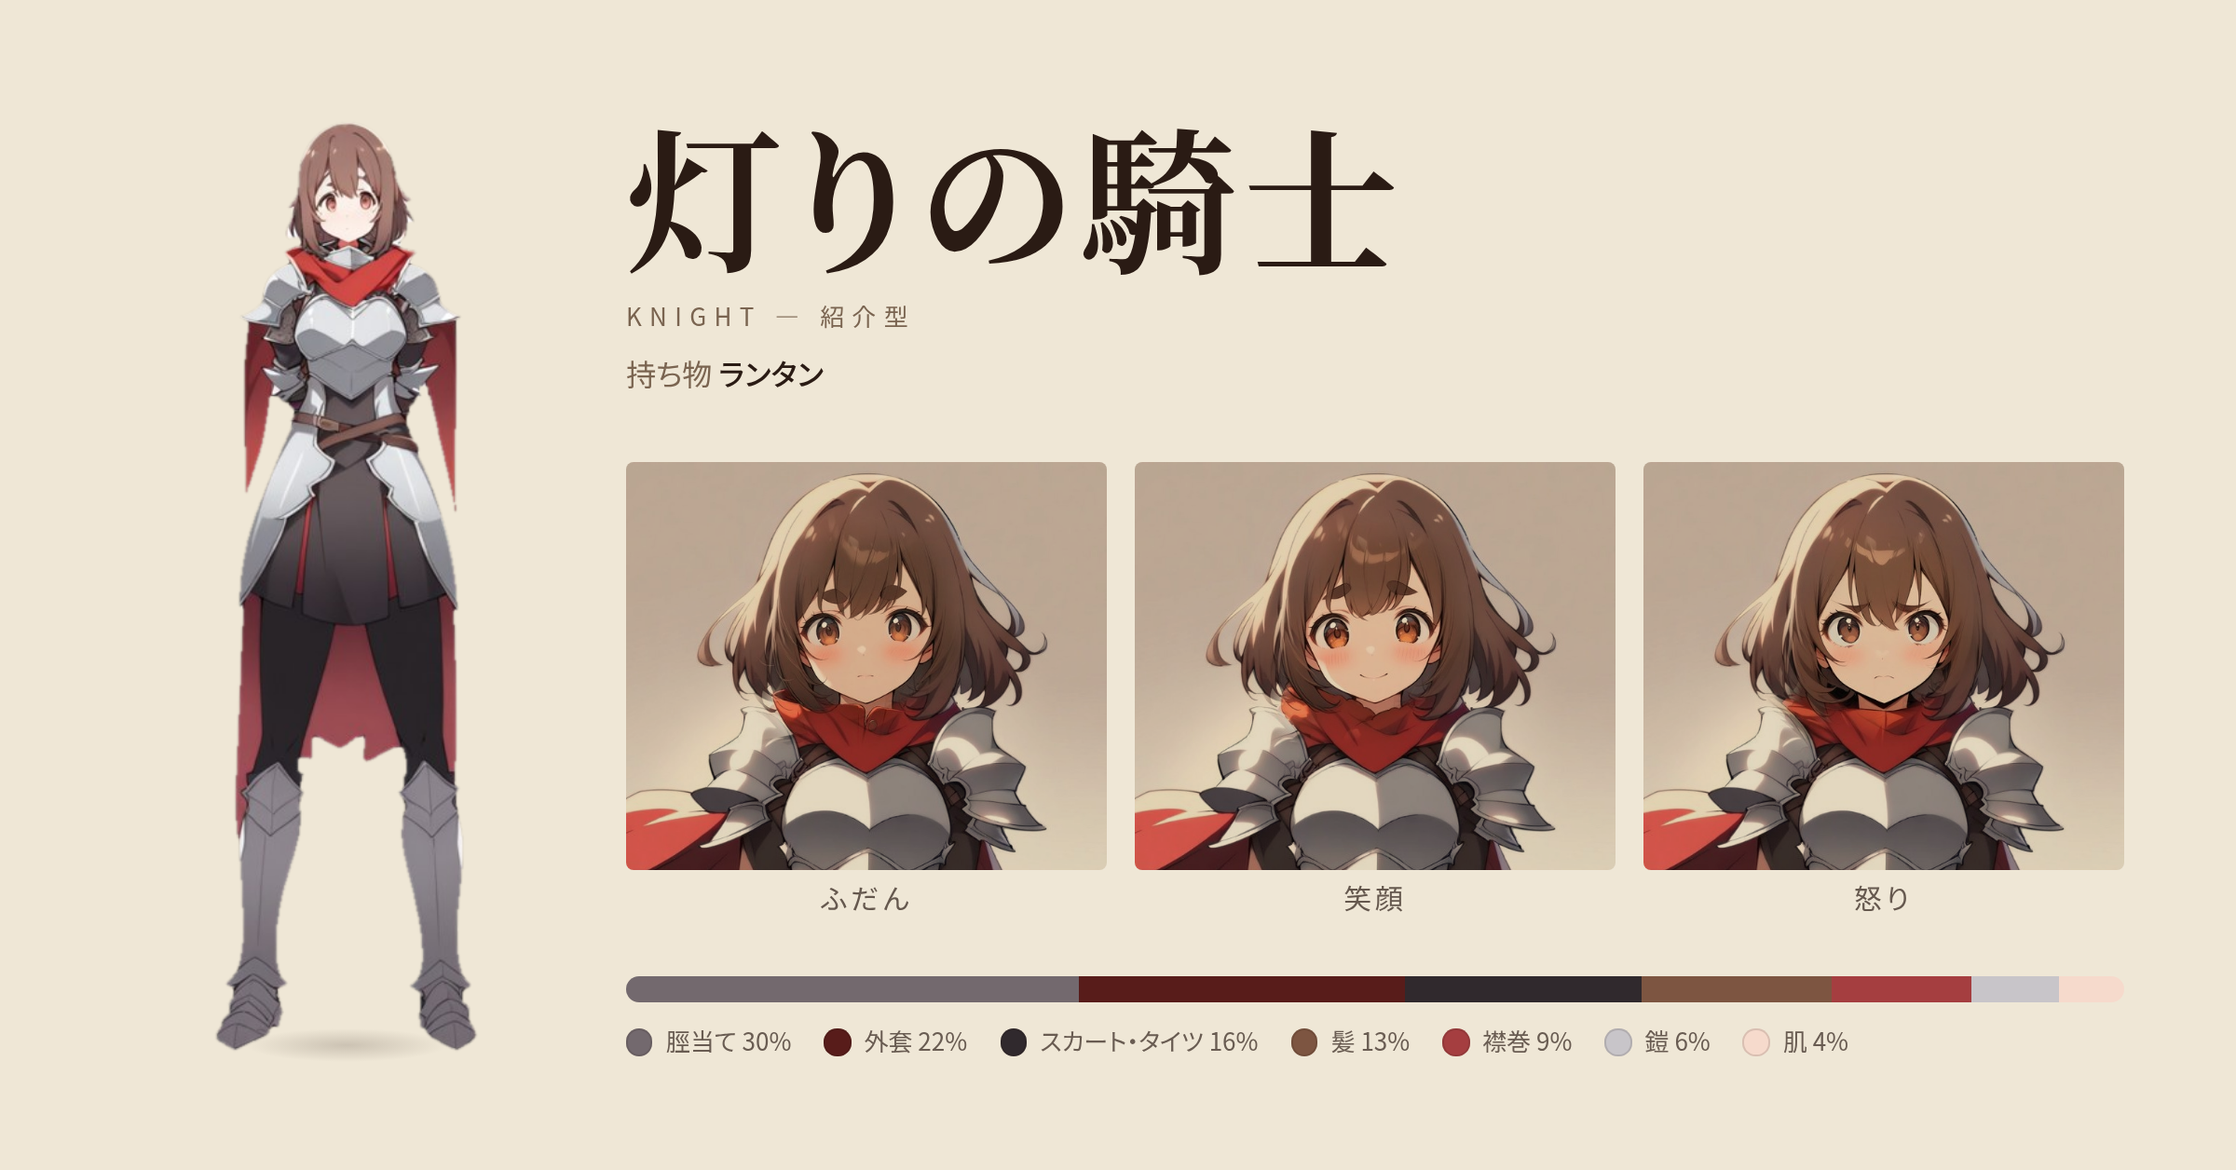
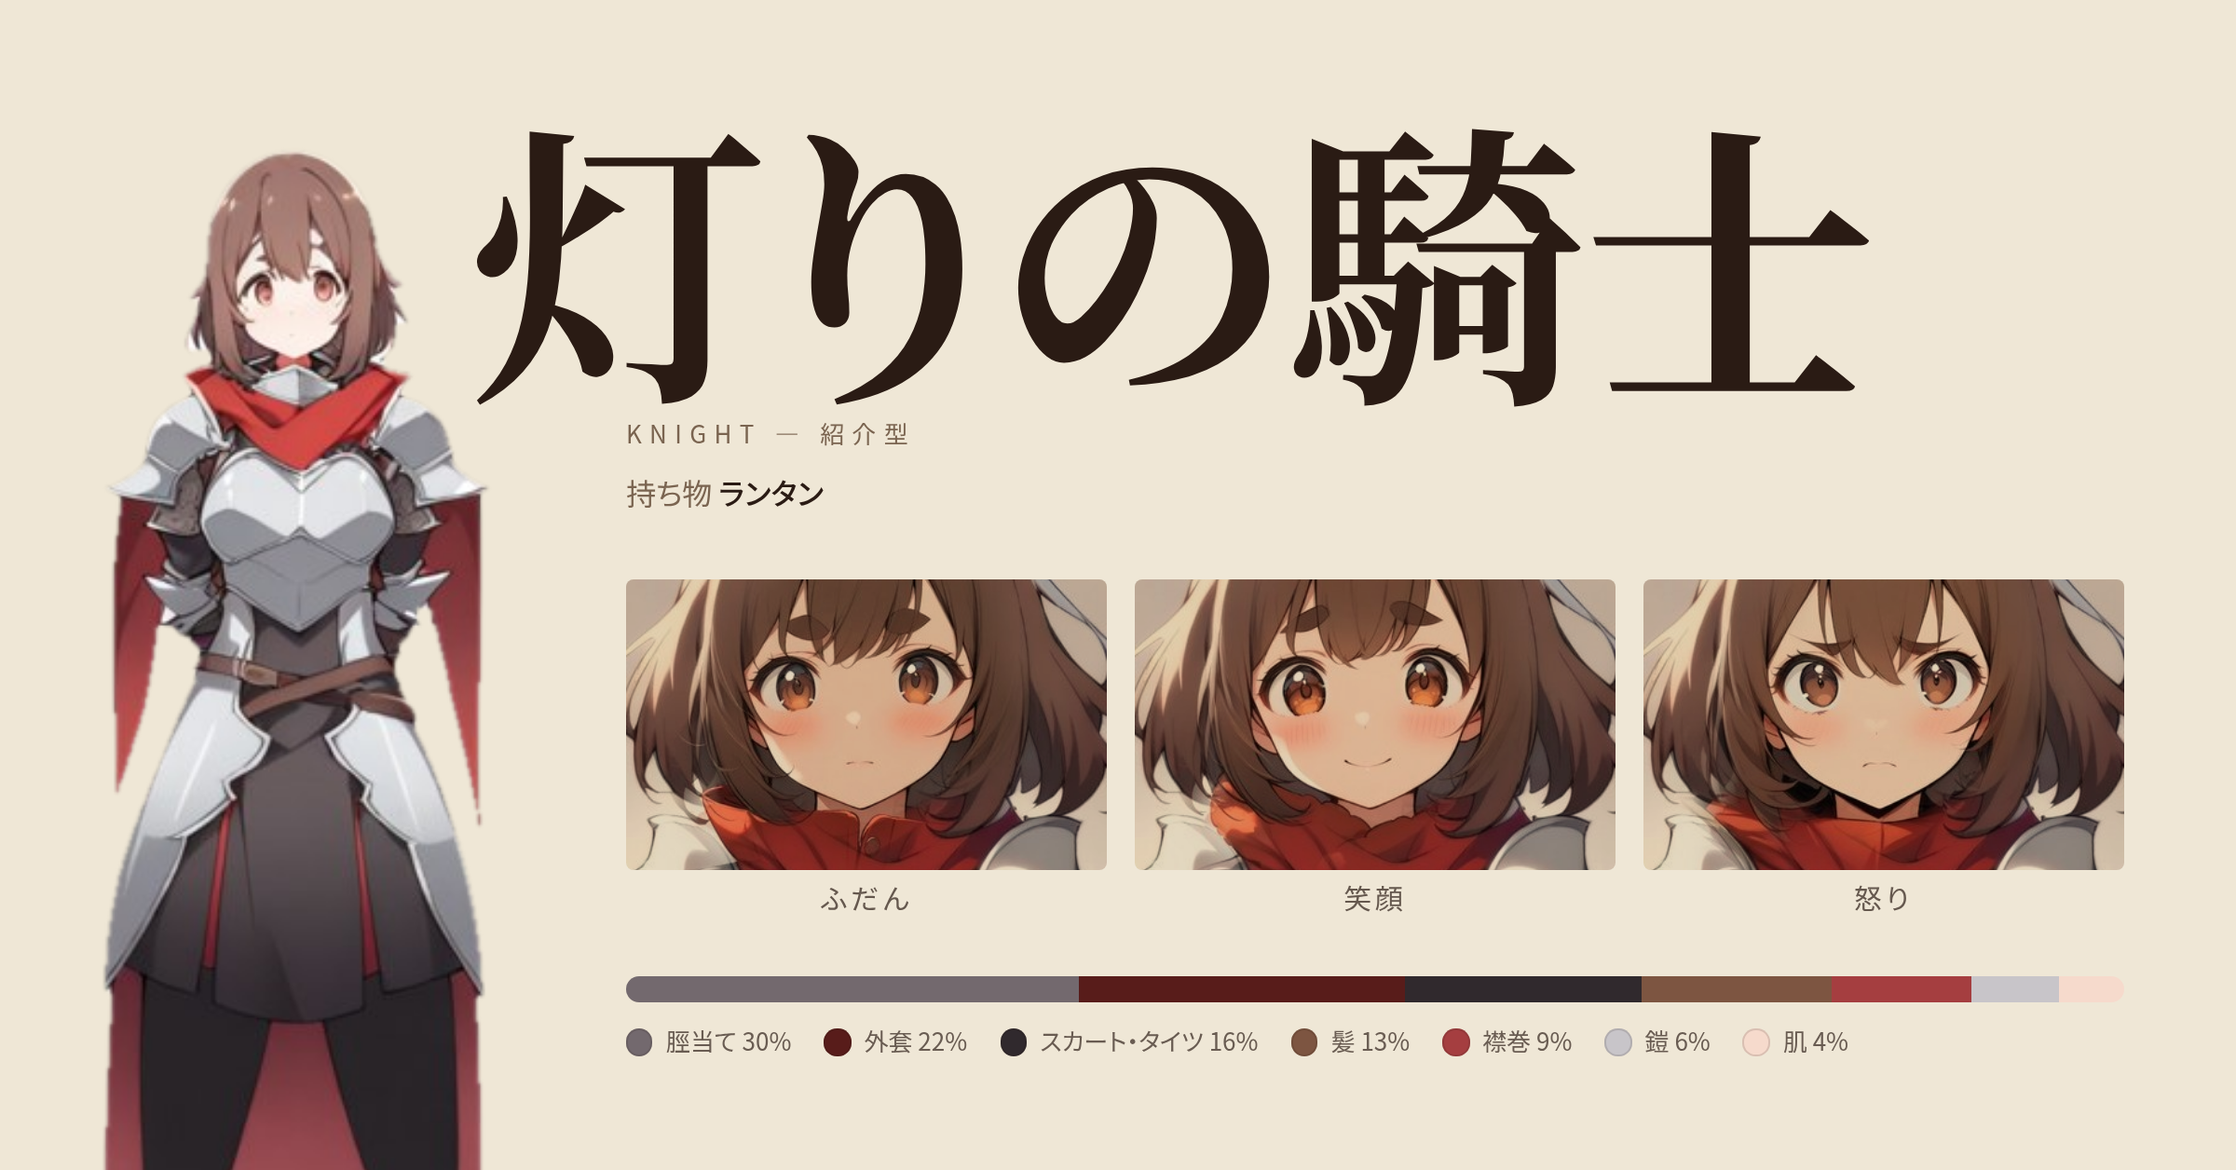
設定画集の版に、端で切る・重ねる手を印つきで入れる
欄に bleed と overlap の印を持たせ、試験は印の無い区画のはみ出しだけを数える。
主役の拡大と裁ち落とし、名前の上に人物を重ねる、顔の大写しを各版で使う。

Claude-Session: https://claude.ai/code/session_01SckJ2FC4PhB88prMhjDTEV

diff --git a/tools/gen/sheetlayout.py b/tools/gen/sheetlayout.py
@@ -28,6 +28,8 @@ CHROME = os.environ.get("SHEET_CHROME", "/opt/pw-browsers/chromium-1194/chrome-l
 # 横の向きの名前。四面図の絵は 正面・右向き・左向き・背面 の順に描いてある
 VIEW_NAMES = {4: ["正面", "右向き", "左向き", "背面"], 2: ["正面", "背面"], 1: ["正面"]}
 TILE_CROP = (0.10, 0.0, 0.90, 0.50)   # 表情の絵から頭と肩を切る割合。顔だけ（FACE_CROP）だと髪型と襟が切れて別人に見えた
+# 顔の大写し: 額と顎を枠で切る。実例の紹介頁は顔を大胆に切って目を大きく見せていた。表情の差は目と口に出るので、そこを残す
+TIGHT_CROP = (0.27, 0.12, 0.74, 0.36)
 
 
 def _uri(im, fmt="PNG") -> str:
@@ -75,12 +77,12 @@ def _hero(c, figs):
     return None, ""
 
 
-def _faces(ident, c, n):
+def _faces(ident, c, n, crop="bust"):
     from PIL import Image
     out = []
     for name, p in cs._expr_list(ident, c)[:n]:
         im = Image.open(bible.ROOT / p).convert("RGB")
-        x0, y0, x1, y1 = TILE_CROP
+        x0, y0, x1, y1 = TILE_CROP if crop == "bust" else TIGHT_CROP
         out.append((name, im.crop((int(x0 * im.width), int(y0 * im.height), int(x1 * im.width), int(y1 * im.height)))))
     return out
 
@@ -142,7 +144,11 @@ body{background:var(--page);color:var(--ink);font-family:var(--font);font-weight
 .meta{font-size:var(--t-body);color:var(--sub);margin-top:calc(var(--t-body) * .6);line-height:1.6}
 .meta b{color:var(--ink);font-weight:500}
 .fit{flex:1;position:relative;min-height:0}
-.fit img{position:absolute;display:block}
+.fit img{position:absolute;display:block;z-index:1}
+.fit{container-type:size}
+.wm{position:absolute;inset:0;display:flex;align-items:center;justify-content:center;writing-mode:vertical-rl;font-family:var(--title-font);font-weight:900;
+  font-size:min(var(--t-wm), 92cqw, calc(96cqh / var(--wmn)));line-height:1;letter-spacing:.02em;color:color-mix(in srgb, var(--accent) 13%, transparent);white-space:nowrap;z-index:0}
+.name.huge{font-size:var(--t-huge);line-height:.95;letter-spacing:-.01em;position:relative;z-index:0}
 .shadow{position:absolute;border-radius:50%;background:radial-gradient(closest-side, color-mix(in srgb, var(--ink) 18%, transparent), transparent)}
 .guide{position:absolute;height:0;border-top:1px dashed color-mix(in srgb, var(--accent) 45%, transparent)}
 .guide.up span{top:auto;bottom:4px}
@@ -195,8 +201,10 @@ JS = r"""
     const img = box.querySelector('img'); if (!img) continue;
     const W = box.clientWidth, H = box.clientHeight - (box.dataset.cap ? parseFloat(getComputedStyle(document.body).getPropertyValue('--t-note')) * 2.8 : 0);
     const L = box.dataset.guides ? 56 : 0;   // 高さの線の名前を置く幅。人物と重ならないよう左に空けておく
-    const s = Math.min((W - L) / img.naturalWidth, H / img.naturalHeight);
-    const w = img.naturalWidth * s, h = img.naturalHeight * s, x = L + (W - L - w) / 2, y = H - h;
+    const k = parseFloat(box.dataset.scale || 1), top = box.dataset.anchor === 'top';
+    const s = Math.min((W - L) / img.naturalWidth, H / img.naturalHeight) * k;
+    // 拡大した主役は頭を区画の上にそろえ、はみ出した下（足）は版面の端で切る
+    const w = img.naturalWidth * s, h = img.naturalHeight * s, x = L + (W - L - w) / 2, y = top ? H * 0.02 : H - h;
     Object.assign(img.style, {left: x + 'px', top: y + 'px', width: w + 'px', height: h + 'px'});
     if (box.dataset.shadow) {
       const sh = document.createElement('div'); sh.className = 'shadow';
@@ -221,11 +229,12 @@ JS = r"""
   const out = {drawn: [], over: [], empty: []};
   const r = e => { const b = e.getBoundingClientRect(); return [b.left, b.top, b.right, b.bottom].map(v => Math.round(v * 2)); };
   for (const cell of document.querySelectorAll('.cell')) {
-    const cb = r(cell), area = cell.dataset.area;
+    const cb = r(cell), area = cell.dataset.area, free = !!(cell.dataset.bleed || cell.dataset.overlap);
     const items = cell.querySelectorAll('img, .name, .meta, .notes li, .chip, .face p, .cap, .guide span, .swt tr, .sbar, .strip, .lab, .call p');
     if (!items.length) out.empty.push(area);
     for (const it of items) {
-      const b = r(it); out.drawn.push([area, cb, b]);
+      const b = r(it); out.drawn.push([area, cb, b, free]);
+      if (free) { out.free = (out.free || 0) + ((b[0] < cb[0] - 2 || b[1] < cb[1] - 2 || b[2] > cb[2] + 2 || b[3] > cb[3] + 2) ? 1 : 0); continue; }
       if (b[0] < cb[0] - 2 || b[1] < cb[1] - 2 || b[2] > cb[2] + 2 || b[3] > cb[3] + 2) out.over.push([area, it.className || it.tagName, cb, b]);
     }
   }
@@ -248,6 +257,12 @@ def _swatch_html(sw, style):
         for s in sw) + "</div>"
 
 
+def _wm(c):
+    """人物の後ろに敷く名前の大きな文字（縦書き）。区画の高さに字数が収まる大きさにする"""
+    n = c["name"]
+    return f'<div class="wm" style="--wmn:{len(n)}">{html.escape(n)}</div>'
+
+
 def _panel_html(pn, ctx):
     e = html.escape
     k, c = pn["kind"], ctx["c"]
@@ -255,10 +270,17 @@ def _panel_html(pn, ctx):
     if k == "header":
         items = "・".join(i["name"] for i in c.get("items", [])[:3])
         meta = f'<div class="meta">持ち物 <b>{e(items)}</b></div>' if items and pn.get("meta", True) else ""
-        return (f'<div class="name">{e(c["name"])}</div><div class="kana">{e(ctx["ident"])} — {e(ctx["fm"]["title"])}</div>{meta}')
+        pull = f' style="margin-left:calc(-{pn["pull"] * 100:.1f}vw)"' if pn.get("pull") else ""   # 名前を主役の下へ引き込み、人物が文字にかぶさるようにする
+        return (f'<div class="name{" huge" if pn.get("huge") else ""}"{pull}>{e(c["name"])}</div><div class="kana">{e(ctx["ident"])} — {e(ctx["fm"]["title"])}</div>{meta}')
     if k == "hero":
         im, cap = ctx["hero"]
-        return f'<div class="fit" data-shadow="1"><img src="{_uri(im)}"></div>' if im else ""
+        if not im:
+            return ""
+        sc, anchor = pn.get("scale", 1), pn.get("anchor", "bottom")
+        shadow = ' data-shadow="1"' if sc <= 1 and anchor == "bottom" else ""   # 足が切れるときは影を置かない
+        # 名前の大きな文字を人物の後ろに敷く（実例では人物が名前や大きな文字にかぶさる作りがあった）
+        wm = _wm(c) if pn.get("watermark") else ""
+        return f'<div class="fit" data-scale="{sc}" data-anchor="{anchor}"{shadow}>{wm}<img src="{_uri(im)}"></div>'
     if k == "turnaround":
         figs = ctx["figs"]
         if not figs:
@@ -269,9 +291,10 @@ def _panel_html(pn, ctx):
             title = title.replace("四面図", "正面・背面図")
         caps = html.escape(json.dumps([[n, x] for (n, _), x in zip(figs, centers)], ensure_ascii=False))
         g = ' data-guides="1"' if pn.get("guides") else ""
-        return lab(title, pn.get("sub", "")) + f'<div class="fit" data-cap="1" data-caps="{caps}"{g}><img src="{_uri(im)}"></div>'
+        wm = _wm(c) if pn.get("watermark") else ""
+        return lab(title, pn.get("sub", "")) + f'<div class="fit" data-cap="1" data-caps="{caps}"{g}>{wm}<img src="{_uri(im)}"></div>'
     if k == "expressions":
-        faces = _faces(ctx["ident"], c, pn.get("max", 6))
+        faces = _faces(ctx["ident"], c, pn.get("max", 6), pn.get("crop", "bust"))
         if not faces:
             return ""
         cols = pn.get("cols", 3)
@@ -368,6 +391,8 @@ def _theme_vars(th, c, W, H, fm):
         "--title-font": serif if th.get("title_font", th.get("font")) == "serif" else sans,
         "--name-w": str(th.get("name_weight", 700)), "--radius": f"{th.get('card_radius', 4)}px",
     }
+    t.setdefault("wm", t["name"] * 3.2)
+    t.setdefault("huge", t["name"] * 1.9)
     for k, px in t.items():
         v[f"--t-{k}"] = f"{px * u:.2f}px"
     return v
@@ -383,10 +408,14 @@ def render(ident: str, fm: dict, th: dict, out_png: str, out_html: str | None = 
     ctx = {"c": c, "ident": ident, "fm": fm, "figs": figs, "hero": _hero(c, figs), "sw": cs._swatches(c), "notes": cs._notes(c),
            "turn": _row(figs) if figs else (None, [])}
     # 区画ごとに欄を積む。素材の無い欄は外し、区画が空になったら absorb の区画に面積を渡して格子を組み直す
-    cells, used = {}, []
+    cells, used, free = {}, [], {}
     for pn in fm["panels"]:
         body = _panel_html(pn, ctx)
         if body:
+            # 印（bleed: 版面の端で切ってよい辺、overlap: 隣の区画に重ねてよい）は区画ごとに集める。印の無い区画のはみ出しだけを崩れとして数える
+            f = free.setdefault(pn["area"], {"bleed": set(), "overlap": False})
+            f["bleed"] |= set(pn.get("bleed", []))
+            f["overlap"] |= bool(pn.get("overlap"))
             grow = " grow" if pn["kind"] in ("hero", "turnaround", "expressions", "poses") else (" fill" if pn.get("style") == "table" else "")
             cells.setdefault(pn["area"], []).append(f'<div class="panel{grow}" data-kind="{pn["kind"]}">{body}</div>')
             used.append(pn["kind"])
@@ -402,7 +431,13 @@ def render(ident: str, fm: dict, th: dict, out_png: str, out_html: str | None = 
     v["--areas"] = " ".join(f'"{" ".join(r)}"' for r in rows)
     v["--rows"] = " ".join(fm["rows"])
     style = ":root{" + ";".join(f"{k}:{val}" for k, val in v.items()) + "}"
-    body = "".join(f'<div class="cell" data-area="{a}" style="grid-area:{a}">{"".join(p)}</div>' for a, p in cells.items())
+    def cell(a, p):
+        f = free.get(a, {"bleed": set(), "overlap": False})
+        st = f"grid-area:{a}" + "".join(f";margin-{side}:calc(-1 * var(--m))" for side in sorted(f["bleed"]))
+        mark = (" data-bleed=\"" + " ".join(sorted(f["bleed"])) + "\"" if f["bleed"] else "") + (" data-overlap=\"1\"" if f["overlap"] else "")
+        z = ";z-index:2" if f["overlap"] or f["bleed"] else ""
+        return f'<div class="cell" data-area="{a}"{mark} style="{st}{z}">{"".join(p)}</div>'
+    body = "".join(cell(a, p) for a, p in cells.items())
     doc = (f'<!doctype html><html lang="ja"><meta charset="utf-8"><title>{html.escape(c["name"])} {html.escape(fm["title"])}</title>'
            f'<style>{_font_css()}\n{style}\n{CSS}</style><body><div class="bg"></div><div class="page">{body}</div></body></html>')
     with tempfile.TemporaryDirectory() as td:
@@ -420,5 +455,5 @@ def render(ident: str, fm: dict, th: dict, out_png: str, out_html: str | None = 
             b.close()
     if out_html:
         Path(out_html).write_text(doc, encoding="utf-8")
-    return {"size": [W, H], "panels": used, "drawn": res["drawn"], "outside_panel": len(res["over"]), "over": res["over"],
+    return {"size": [W, H], "panels": used, "drawn": res["drawn"], "outside_panel": len(res["over"]), "over": res["over"], "intended": res.get("free", 0),
             "empty": res["empty"]}

diff --git a/tests/test_sheet_formats.py b/tests/test_sheet_formats.py
@@ -1,5 +1,6 @@
 """設定画集の版（styles/sheet-formats/*.json）とテーマ（styles/sheet-themes/*.json）が読めること、
-版とテーマを組み合わせて出せること、欄が区画からはみ出さないこと、中身の無い区画を作らないこと"""
+版とテーマを組み合わせて出せること、印の無い区画からはみ出さないこと、中身の無い区画を作らないこと、
+各版が魅せる手（端で切る・重ねる・顔の大写し・名前の上に人物）を少なくとも1つ使うこと"""
 import json
 import sys
 from pathlib import Path
@@ -45,7 +46,9 @@ def test_sample_renders_without_overflow(name, tmp_path):
     assert r["empty"] == []
     from PIL import Image
     assert Image.open(tmp_path / f"{name}.png").size == tuple(r["size"])
-    for _, _, d in r["drawn"]:
+    for _, _, d, free in r["drawn"]:
+        if free:   # bleed / overlap の印のある区画は、端で切れたり隣に重なったりしてよい
+            continue
         assert d[0] >= 0 and d[1] >= 0 and d[2] <= W and d[3] <= H, d
 
 
@@ -73,7 +76,9 @@ def test_theme_and_format_combine_without_overflow(theme, name, tmp_path):
     r = charsheet.sheet_format("sheep-girl", name, str(tmp_path / "s.png"), theme=theme)
     W, H = r["size"]
     assert r["theme"] == theme and r["outside_panel"] == 0 and r["empty"] == []
-    for _, _, d in r["drawn"]:
+    for _, _, d, free in r["drawn"]:
+        if free:   # bleed / overlap の印のある区画は、端で切れたり隣に重なったりしてよい
+            continue
         assert d[0] >= 0 and d[1] >= 0 and d[2] <= W and d[3] <= H, d
 
 
@@ -91,3 +96,12 @@ def test_suggest_puts_matching_theme_first():
 def test_unknown_theme_fails():
     with pytest.raises(SystemExit):
         charsheet.load_theme("no-such-theme")
+
+
+@pytest.mark.parametrize("name", NAMES)
+def test_each_format_uses_a_bold_device(name):
+    # 区画からはみ出さない決まりだけでは、主役が台紙に収まった平板な版になった
+    fm = charsheet.load_format(name)
+    marks = [k for pn in fm["panels"] for k in ("bleed", "overlap", "watermark", "huge") if pn.get(k)]
+    marks += ["tight" for pn in fm["panels"] if pn.get("crop") == "tight"]
+    assert marks, name

diff --git a/docs/knowledge/learning/design-sheet-layout.md b/docs/knowledge/learning/design-sheet-layout.md
@@ -103,3 +103,24 @@
 - 主役は背景を透かして地の上に立たせ、足の下に薄い影を 1 つ置く。台紙の枠は使わない
 - 素材の無い欄は外し、区画ごと隣の区画に渡す（absorb）。空いたますを作らない
 - テーマは 地・墨・補助・差し色（＋表情の台）の 5 色まで、模様は無し・点・罫・方眼のどれか 1 つを濃さ 5〜9% で
+
+## 端で切る・重ねる手（2026-11-01 に同じ 15 頁を数え直した）
+
+前の節の数え方は「台紙と帯があるか」だけで、人物が区画や版面の外に出る手を数えていなかった。数え直した結果:
+
+| 手 | 使った例（表の番号） | 数 |
+|---|---|---|
+| 主役や顔が版面の端で切れる（裁ち落とし） | 1（全身が下端で膝から下が切れる）、6（頭 3 つが下端で胸から下が切れる） | 2 |
+| 人物が隣の区画・枠・色面に重なる | 1（文の枠）、2（札の枠の外へ出る）、3（斜めの色面）、5（帯と表情の列） | 4 |
+| 大きな文字の上に人物がかぶさる | 1（地名の大きな英字）、5（縦の大きな名前の英字） | 2 |
+| 頭どうしを重ねる | 7 | 1 |
+| 顔を額や顎で切る大写し | なし（胸や肩で切るものは 8 例） | 0 |
+
+- 使っていたのは紹介頁と設定画の公開画像（1〜7）で、7 例のうち 6 例が少なくとも 1 つ使っていた。資料集・一覧・事務所の作品一覧（8〜15）は 0
+- 1 枚で使う手は 1〜3 個。切るのは足か胸から下で、顔を版面の端で切る例は無かった
+- 重ねる相手は、枠・色面・大きな文字・隣の顔で、本文の上にはかぶせていなかった
+
+この道具での形: 版の欄に印を持たせる。`bleed`（版面の端で切ってよい辺）と `overlap`（隣の区画に重ねてよい）。
+主役は `scale`（区画より大きく置く倍率）と `anchor: top`（頭を上にそろえ、足を下の端で切る）、`watermark`（後ろに名前の大きな縦書き）。
+表情は `crop: tight` で額と顎を切る大写し（実例には無いが、目と口を大きく見せるために選べるようにした）。見出しは `huge` と `pull`（名前を主役の下へ引き込む）。
+試験は印の無い区画のはみ出しだけを崩れとして数える。

diff --git a/docs/knowledge/decisions.md b/docs/knowledge/decisions.md
@@ -196,3 +196,4 @@
 - 2026-10-31: 台紙の枠・見出しの帯・二重の縁をやめ、主役は切り抜いて地の上に立たせる。実物の頁 16 例のうち台紙と帯を使うのは札の一覧の 3 例だけで、設定画と資料集は 0 だった（`docs/knowledge/learning/design-sheet-layout.md` の表）。これにより前の「主役の欄は台紙を 16% 下げて頭を外に出す」と「素材の無い欄を点線の空欄にする」は取り消す。素材の無い欄は外し、区画を隣に渡す
 - 2026-10-31: テーマは 地・墨・補助・差し色（＋表情の台）に絞り、地の模様は無し・点・罫・方眼の 1 つを濃さ 5〜9% にする。羊皮紙の質感と紋章の菱は人物の絵と競った
 - 2026-10-31: 総覧型の注記は各項目の最初の一文だけにする。全文は作画用の版に載せる。狭い欄に全文を入れると区画からあふれた（羊娘で 7 か所）
+- 2026-11-01: 「区画からはみ出さない」の決まりをやめ、欄に `bleed`（版面の端で切ってよい）と `overlap`（重ねてよい）の印を持たせる。試験は印の無い区画のはみ出しだけを数える。前の決まりは崩れ（意図しないはみ出し）と見せ方（意図した裁ち落としと重なり）を区別しておらず、主役が区画に収まった平板な版しか作れなかった。実例の紹介頁 7 例のうち 6 例が端で切るか重ねる手を使っていた
